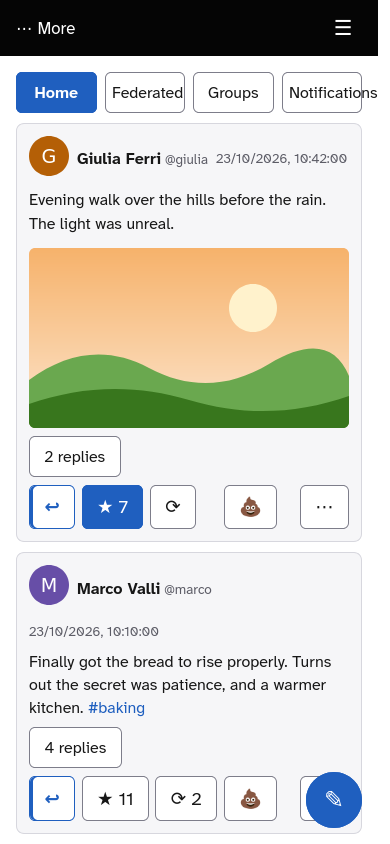
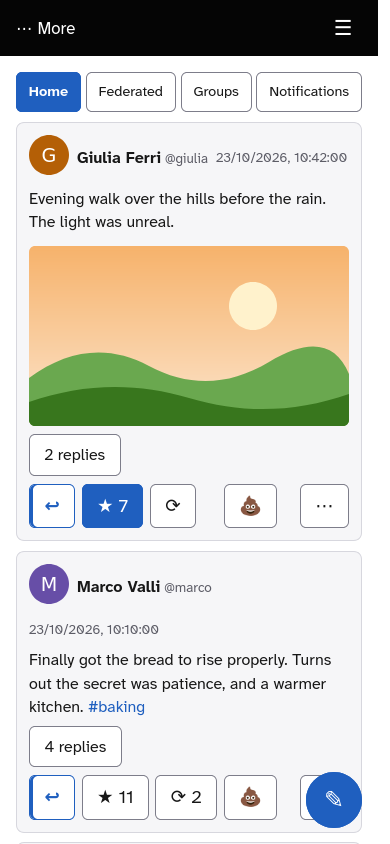
The tabs fit a narrow phone: they size by their names, shrink a little and wrap instead of cutting off Notifications

diff --git a/app/css/app.css b/app/css/app.css
@@ -274,3 +274,11 @@ body.modal-open { overflow: hidden; }
 :root button.btn-quote { background: var(--btn-bg); color: var(--accent); border: 1px solid var(--accent); box-shadow: inset 3px 0 0 var(--accent); font-weight: 700; }
 :root[data-theme="contrast"] button.btn-danger { border-style: dashed; border-width: 2px; }
 .composer button.quote { align-self: flex-start; }
+/* The tabs share the row by the width of their names; on a narrow phone they shrink a little,
+   and if even that is not enough they go to a second line instead of being cut off. */
+.tabs { flex-wrap: wrap; }
+.tabs button { flex: 1 1 auto; }
+@media (max-width: 26rem) {
+  .tabs { gap: .3rem; }
+  .tabs button { font-size: .9rem; padding-inline: .3rem; }
+}

diff --git a/tests/button-kinds.test.js b/tests/button-kinds.test.js
@@ -36,3 +36,8 @@ test("on a post, Reply is of the quote kind and Dislike has no special kind", ()
   assert.ok(card.querySelector("button.reply").classList.contains("btn-quote"));
   assert.equal(card.querySelector("button.dislike").className.includes("btn-"), false);
 });
+
+test("the tabs size themselves by their names and wrap rather than being cut off", () => {
+  assert.match(css, /\.tabs \{ flex-wrap: wrap; \}/);
+  assert.match(css, /\.tabs button \{ flex: 1 1 auto; \}/);
+});
